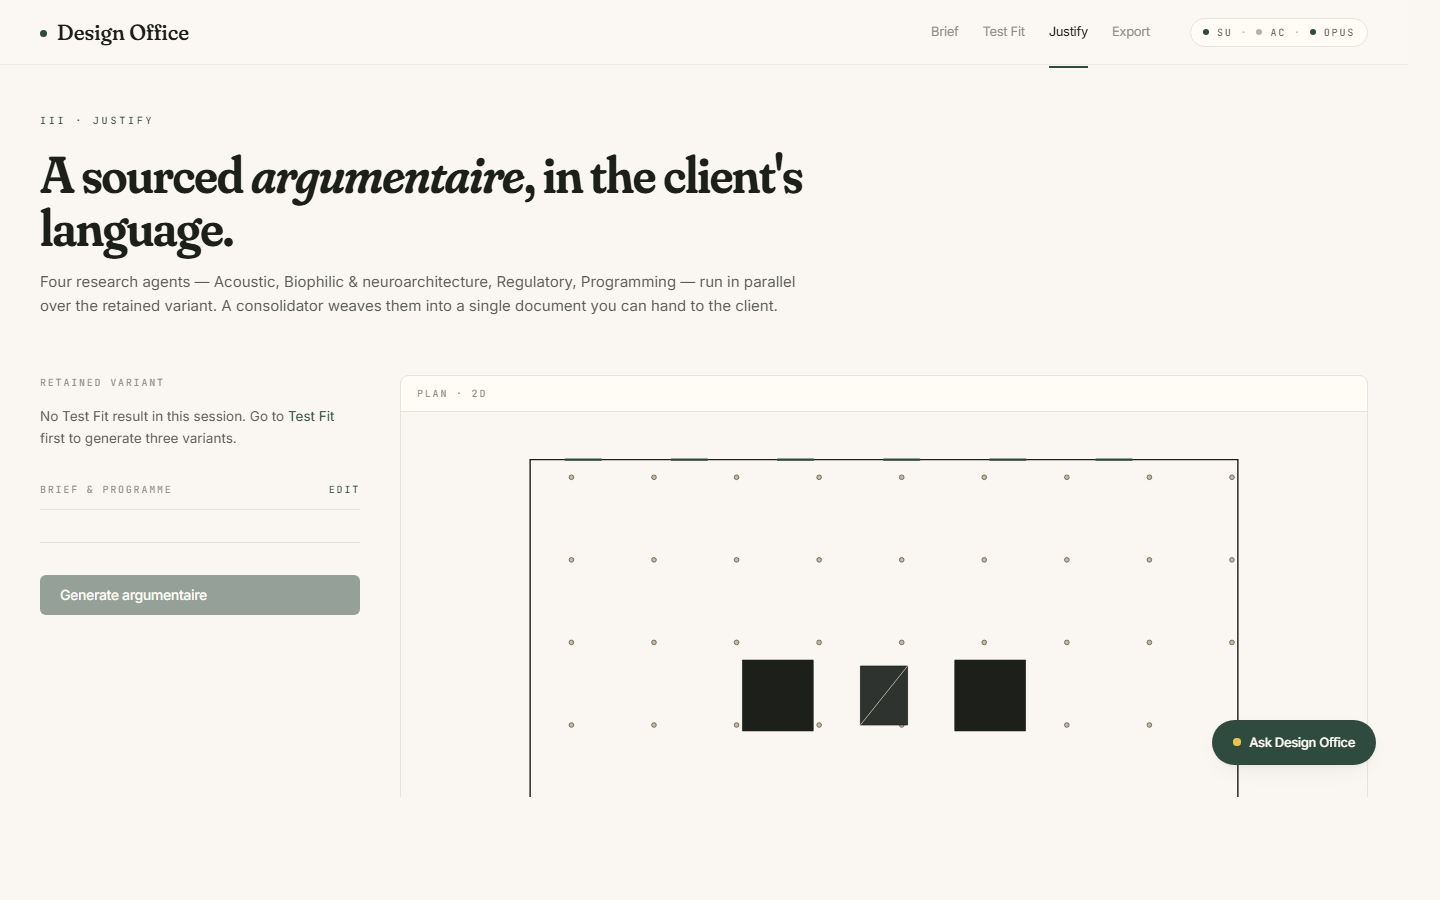
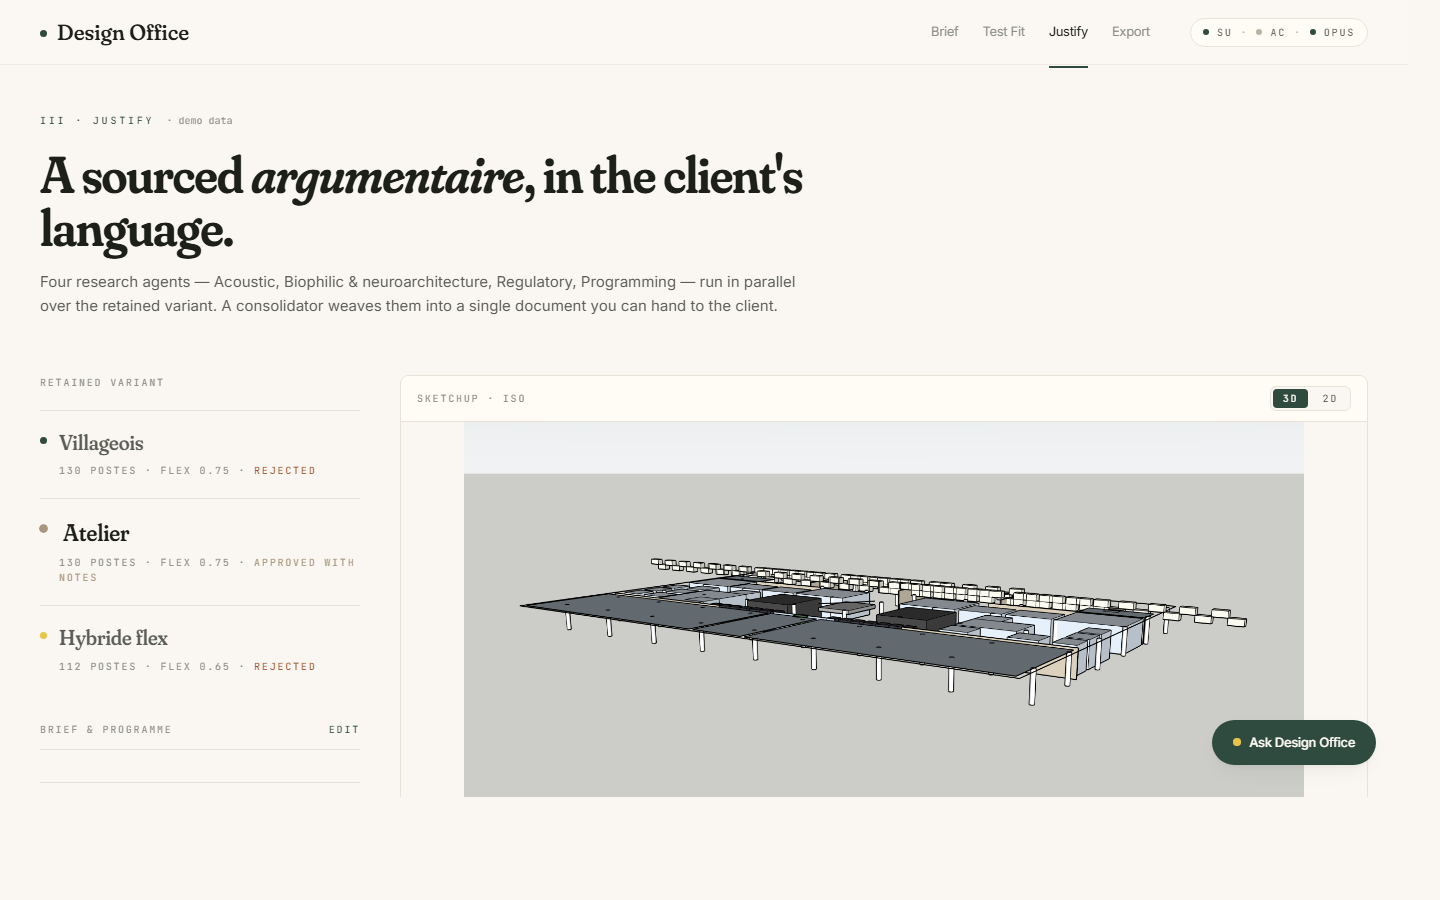
feat(demo): cold-start demo mode on Justify + Export
A judge landing directly on /justify or /export (without the Brief -> Test
Fit flow) used to hit an empty-state message. Now each page auto-loads the
saved 3-variant Lumen fixture so they always show real content and can be
used to demo the surface in isolation.

- Backend: new GET /api/testfit/sample returns the saved
  tests/fixtures/generate_output_sample.json, shaped as a full
  TestFitResponse (3 variants + 3 reviewers). 404 if the fixture hasn't
  been generated yet. One new test verifies the shape (35 passed total).
- Frontend lib: fetchTestFitSample() wraps the endpoint.
- Justify + Export: if localStorage has no testfit.result, fetch the
  sample, flip the internal stored state, and show a subtle
  "III · Justify · demo data" / "IV · Export · demo data" eyebrow so the
  origin of the content is honest.
- Re-captured docs/screenshots/04-justify.png + 05-export.png against the
  demo mode - both now showcase the Atelier/Villageois renders and the
  full variant rail instead of the old empty state.

diff --git a/frontend/src/routes/Justify.tsx b/frontend/src/routes/Justify.tsx
@@ -8,7 +8,7 @@ import TypewriterText from "../components/ui/TypewriterText";
 import VariantViewer from "../components/viewer/VariantViewer";
 import { useLiveScreenshots } from "../hooks/useLiveScreenshots";
 import {
-  fetchLumenFixture,
+  fetchTestFitSample,
   generateJustify,
   justifyPdfUrl,
   justifyPptxUrl,
@@ -71,7 +71,7 @@ const AGENT_TYPING: Record<string, string> = {
 };
 
 export default function Justify() {
-  const [stored] = useState<PersistedTestFit | null>(() => {
+  const [stored, setStored] = useState<PersistedTestFit | null>(() => {
     try {
       const raw = localStorage.getItem("design-office.testfit.result");
       return raw ? JSON.parse(raw) : null;
@@ -79,7 +79,7 @@ export default function Justify() {
       return null;
     }
   });
-  const [floorPlanFallback, setFloorPlanFallback] = useState<FloorPlan | null>(null);
+  const [isSample, setIsSample] = useState(false);
   const [selected, setSelected] = useState<VariantOutput["style"] | null>(null);
   const [state, setState] = useState<State>({ kind: "idle" });
   const [brief, setBrief] = useState(() =>
@@ -89,16 +89,27 @@ export default function Justify() {
     localStorage.getItem("design-office.programme") ?? FALLBACK_PROGRAMME,
   );
 
+  // Cold-start demo mode : if the user lands here without running Test Fit
+  // first, auto-load the saved Lumen fixture (3 variants + reviewers).
   useEffect(() => {
     if (stored) return;
     const ac = new AbortController();
-    fetchLumenFixture(ac.signal).then(setFloorPlanFallback).catch(() => null);
+    fetchTestFitSample(ac.signal)
+      .then((sample) => {
+        setStored({
+          floor_plan: sample.floor_plan,
+          variants: sample.variants,
+          verdicts: sample.verdicts,
+        });
+        setIsSample(true);
+      })
+      .catch(() => null);
     return () => ac.abort();
   }, [stored]);
 
   const variants = stored?.variants ?? [];
   const verdicts = stored?.verdicts ?? [];
-  const floorPlan = stored?.floor_plan ?? floorPlanFallback;
+  const floorPlan = stored?.floor_plan ?? null;
 
   useEffect(() => {
     if (selected || variants.length === 0) return;
@@ -159,7 +170,14 @@ export default function Justify() {
   return (
     <div className="space-y-14">
       <header className="max-w-3xl">
-        <p className="eyebrow-forest">III · Justify</p>
+        <p className="eyebrow-forest">
+          III · Justify
+          {isSample && (
+            <span className="ml-3 text-ink-muted normal-case tracking-normal">
+              · demo data
+            </span>
+          )}
+        </p>
         <h1
           className="mt-5 font-display text-display-sm leading-[1.02] text-ink"
           style={{ fontVariationSettings: '"opsz" 144, "wght" 620, "SOFT" 100' }}

diff --git a/frontend/src/routes/Export.tsx b/frontend/src/routes/Export.tsx
@@ -7,7 +7,7 @@ import VariantViewer from "../components/viewer/VariantViewer";
 import { useLiveScreenshots } from "../hooks/useLiveScreenshots";
 import {
   exportDxfUrl,
-  fetchLumenFixture,
+  fetchTestFitSample,
   generateExport,
   type ExportResponse,
   type FloorPlan,
@@ -40,7 +40,7 @@ type State =
   | { kind: "error"; message: string };
 
 export default function ExportRoute() {
-  const [stored] = useState<PersistedTestFit | null>(() => {
+  const [stored, setStored] = useState<PersistedTestFit | null>(() => {
     try {
       const raw = localStorage.getItem("design-office.testfit.result");
       return raw ? JSON.parse(raw) : null;
@@ -48,22 +48,33 @@ export default function ExportRoute() {
       return null;
     }
   });
-  const [fallbackPlan, setFallbackPlan] = useState<FloorPlan | null>(null);
+  const [isSample, setIsSample] = useState(false);
   const [selected, setSelected] = useState<VariantOutput["style"] | null>(null);
   const [scale, setScale] = useState<number>(100);
   const [projectRef, setProjectRef] = useState<string>("LUMEN-CAT-B");
   const [state, setState] = useState<State>({ kind: "idle" });
 
+  // Cold-start demo mode : load the saved Lumen fixture if the user
+  // landed here without running Test Fit first.
   useEffect(() => {
     if (stored) return;
     const ac = new AbortController();
-    fetchLumenFixture(ac.signal).then(setFallbackPlan).catch(() => null);
+    fetchTestFitSample(ac.signal)
+      .then((sample) => {
+        setStored({
+          floor_plan: sample.floor_plan,
+          variants: sample.variants,
+          verdicts: sample.verdicts,
+        });
+        setIsSample(true);
+      })
+      .catch(() => null);
     return () => ac.abort();
   }, [stored]);
 
   const variants = stored?.variants ?? [];
   const verdicts = stored?.verdicts ?? [];
-  const floorPlan = stored?.floor_plan ?? fallbackPlan;
+  const floorPlan = stored?.floor_plan ?? null;
 
   useEffect(() => {
     if (selected || variants.length === 0) return;
@@ -121,7 +132,14 @@ export default function ExportRoute() {
   return (
     <div className="space-y-20">
       <header className="max-w-3xl">
-        <p className="eyebrow-forest">IV · Export</p>
+        <p className="eyebrow-forest">
+          IV · Export
+          {isSample && (
+            <span className="ml-3 text-ink-muted normal-case tracking-normal">
+              · demo data
+            </span>
+          )}
+        </p>
         <h1
           className="mt-5 font-display text-display-sm leading-[1.02] text-ink"
           style={{ fontVariationSettings: '"opsz" 144, "wght" 620, "SOFT" 100' }}

diff --git a/frontend/src/lib/api.ts b/frontend/src/lib/api.ts
@@ -157,6 +157,12 @@ export async function fetchLumenFixture(signal?: AbortSignal): Promise<FloorPlan
   return r.json();
 }
 
+export async function fetchTestFitSample(signal?: AbortSignal): Promise<TestFitResponse> {
+  const r = await fetch("/api/testfit/sample", { signal });
+  if (!r.ok) throw new Error(`Sample fetch failed: ${r.status}`);
+  return r.json();
+}
+
 export async function uploadPlanPdf(file: File, useVision: boolean): Promise<FloorPlan> {
   const form = new FormData();
   form.append("file", file);

diff --git a/backend/app/main.py b/backend/app/main.py
@@ -150,6 +150,33 @@ def testfit_fixture(use_vision: bool | None = None) -> FloorPlan:
     return parse_pdf(FIXTURE_PDF, use_vision=resolved_use_vision)
 
 
+_SAMPLE_RESULT_PATH = (
+    Path(__file__).resolve().parent.parent / "tests" / "fixtures" / "generate_output_sample.json"
+)
+
+
+@app.get("/api/testfit/sample")
+def testfit_sample() -> TestFitResponse:
+    """Return the saved live Lumen Test Fit run (3 variants + 3 reviewers).
+
+    Useful as a demo-mode fallback : a judge landing on /justify or /export
+    without going Brief → Test Fit first gets a populated page rather than
+    an empty state. Payload is identical in shape to what POST
+    /api/testfit/generate produces, so the client can feed it straight into
+    localStorage.
+    """
+
+    if not _SAMPLE_RESULT_PATH.exists():
+        raise HTTPException(
+            status_code=404,
+            detail="Sample fixture not found. Run scripts/run_lumen_full.py first.",
+        )
+    import json
+
+    data = json.loads(_SAMPLE_RESULT_PATH.read_text(encoding="utf-8"))
+    return TestFitResponse.model_validate(data)
+
+
 @app.post("/api/testfit/parse")
 async def testfit_parse(
     file: UploadFile = File(...),

diff --git a/backend/tests/test_testfit.py b/backend/tests/test_testfit.py
@@ -38,3 +38,22 @@ def test_fixture_pdf_is_generated() -> None:
     client.get("/api/testfit/fixture?use_vision=false")
     assert fixture.exists()
     assert fixture.stat().st_size > 1000
+
+
+def test_testfit_sample_returns_saved_lumen_run() -> None:
+    """Cold-start demo fallback: /api/testfit/sample must return the saved
+    3-variant + 3-reviewer fixture so Justify + Export have content even if
+    the judge hasn't run Test Fit first.
+    """
+
+    client = TestClient(app)
+    response = client.get("/api/testfit/sample")
+    assert response.status_code == 200
+    payload = response.json()
+    assert "floor_plan" in payload
+    assert "variants" in payload
+    assert "verdicts" in payload
+    assert len(payload["variants"]) == 3
+    assert len(payload["verdicts"]) == 3
+    styles = {v["style"] for v in payload["variants"]}
+    assert styles == {"villageois", "atelier", "hybride_flex"}
